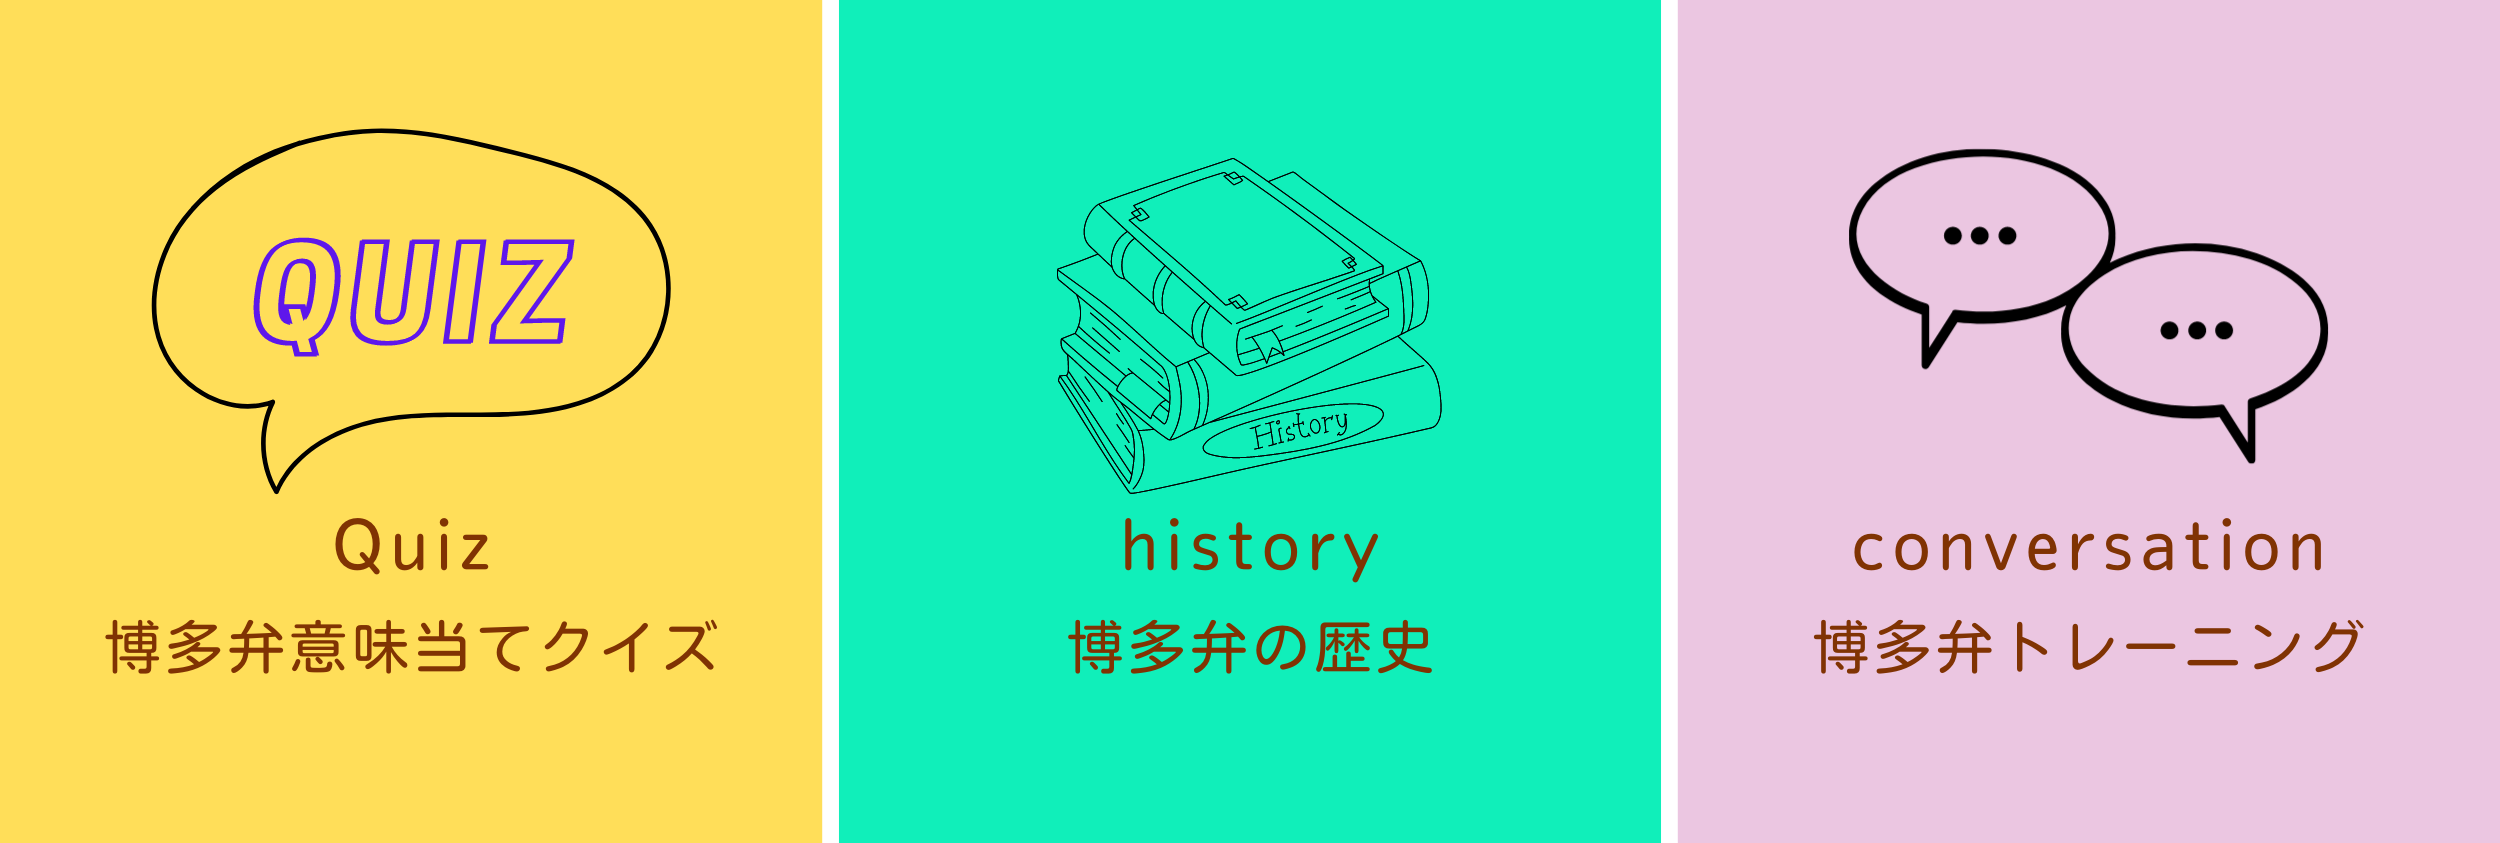
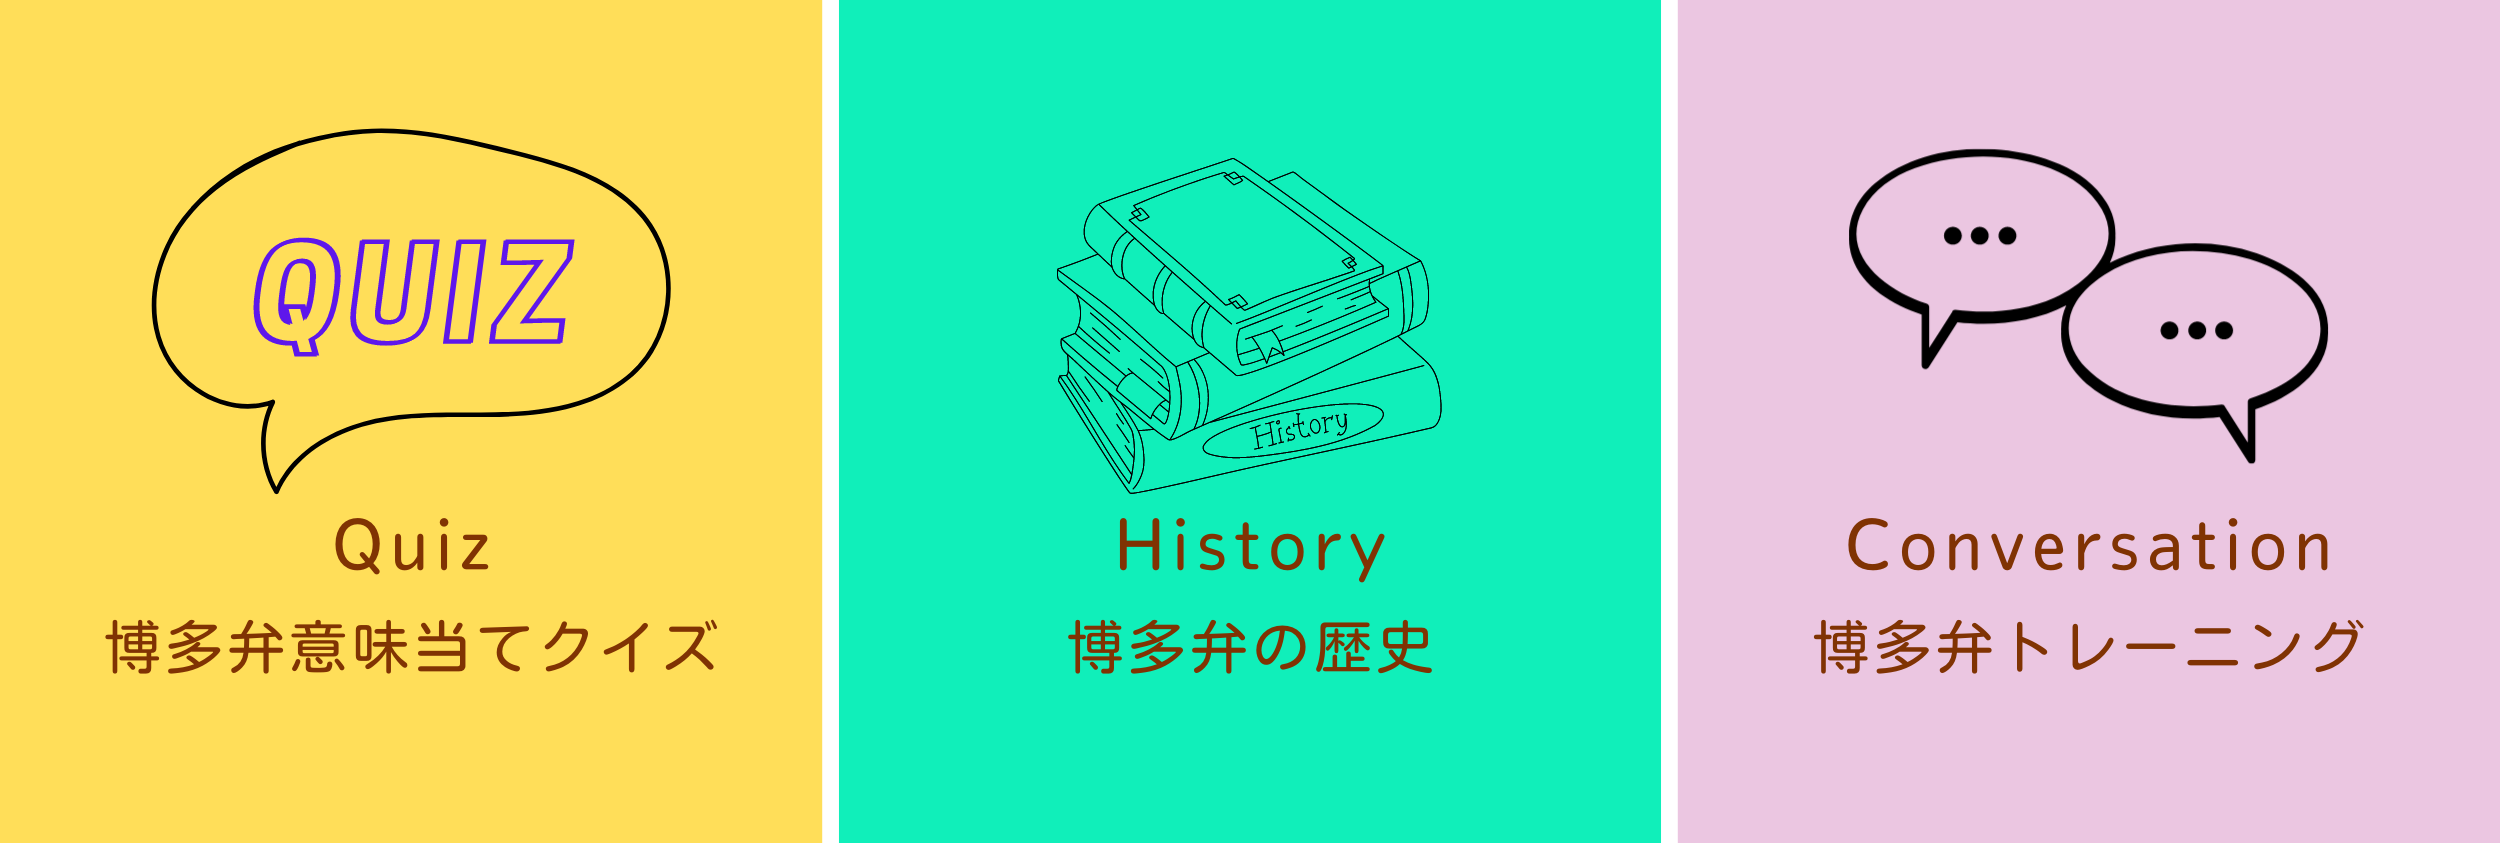
feat: main-menuの文字を大文字に修正しました

Changed region(s): [[0.7176, 0.6168, 0.936, 0.6785], [0.4368, 0.6168, 0.5616, 0.6785]]

diff --git a/src/controllers/webhook/webhook.controller.ts b/src/controllers/webhook/webhook.controller.ts
@@ -19,8 +19,6 @@ export const webhookController = async (req: Request, res: Response) => {
               // 最初の\nでのみ分割
               const splittedTexts = e.message.text.split(/(?<=^[^\n]+)\n/);
 
-              console.log(splittedTexts[0] === '博多について知りたい！');
-
               if (splittedTexts[0] === 'クイズをしよう！') {
                 quiz(e.replyToken, 3);
               } else if (splittedTexts[0] === '博多について知りたい！') {
